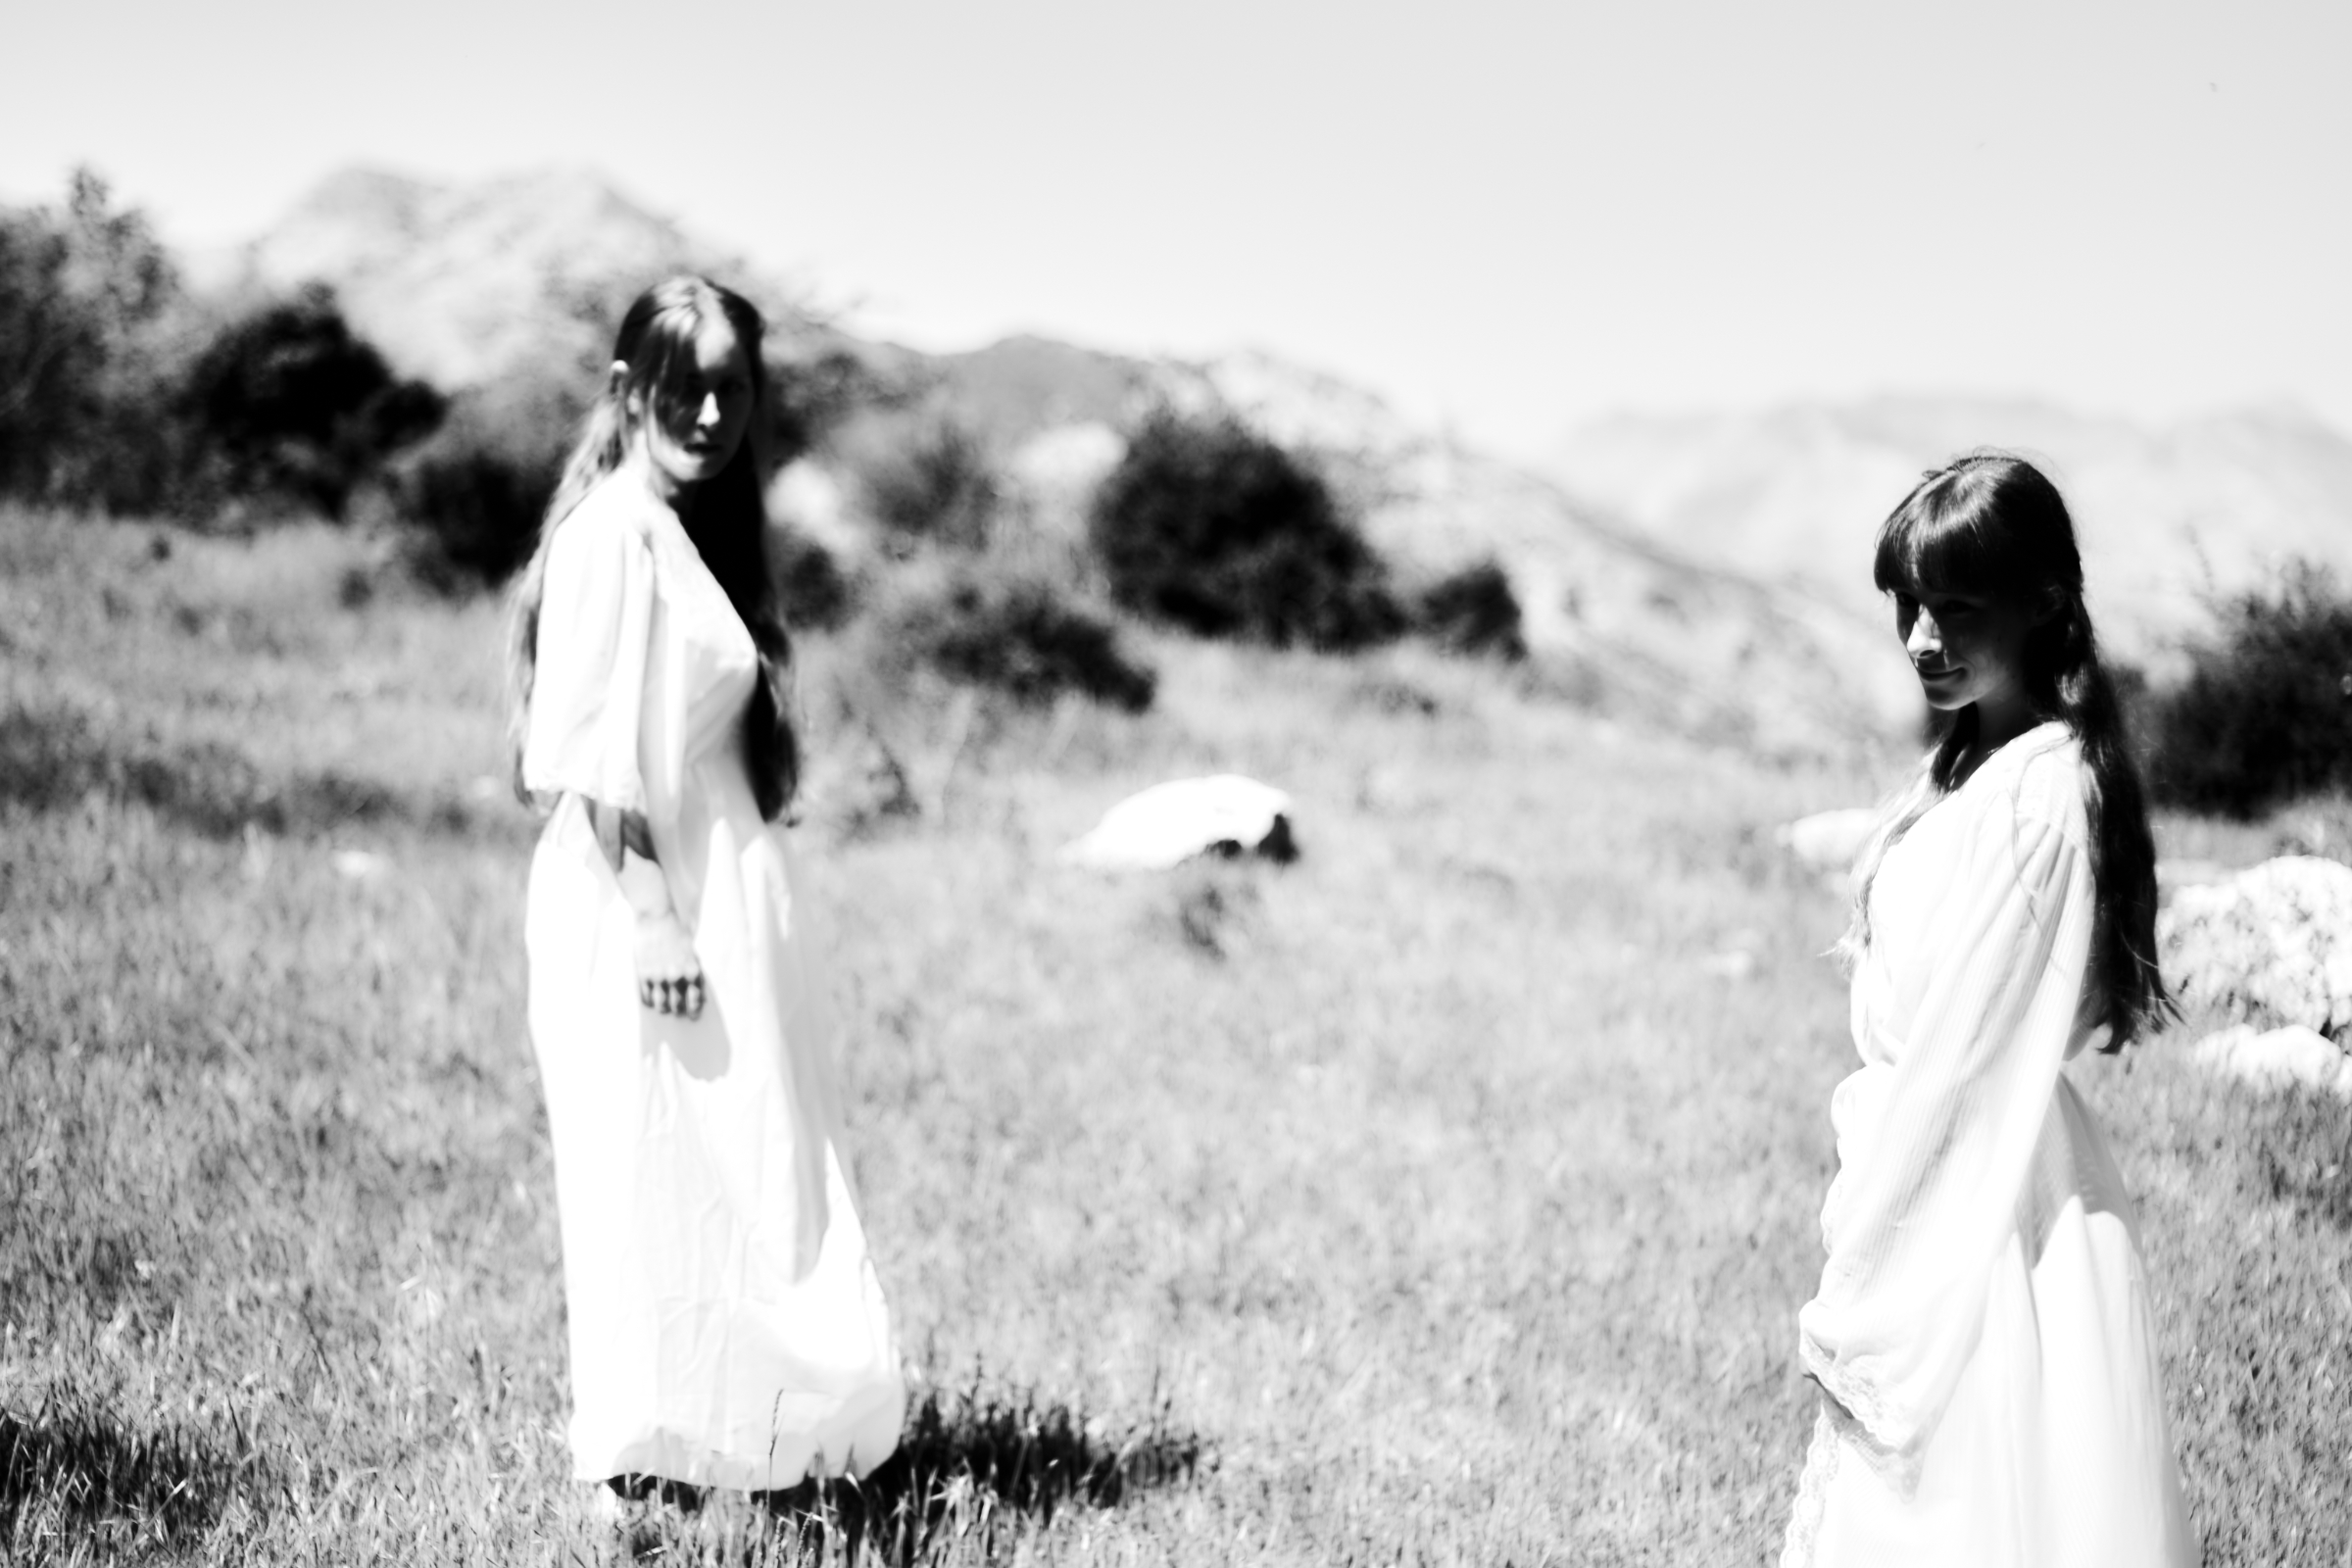
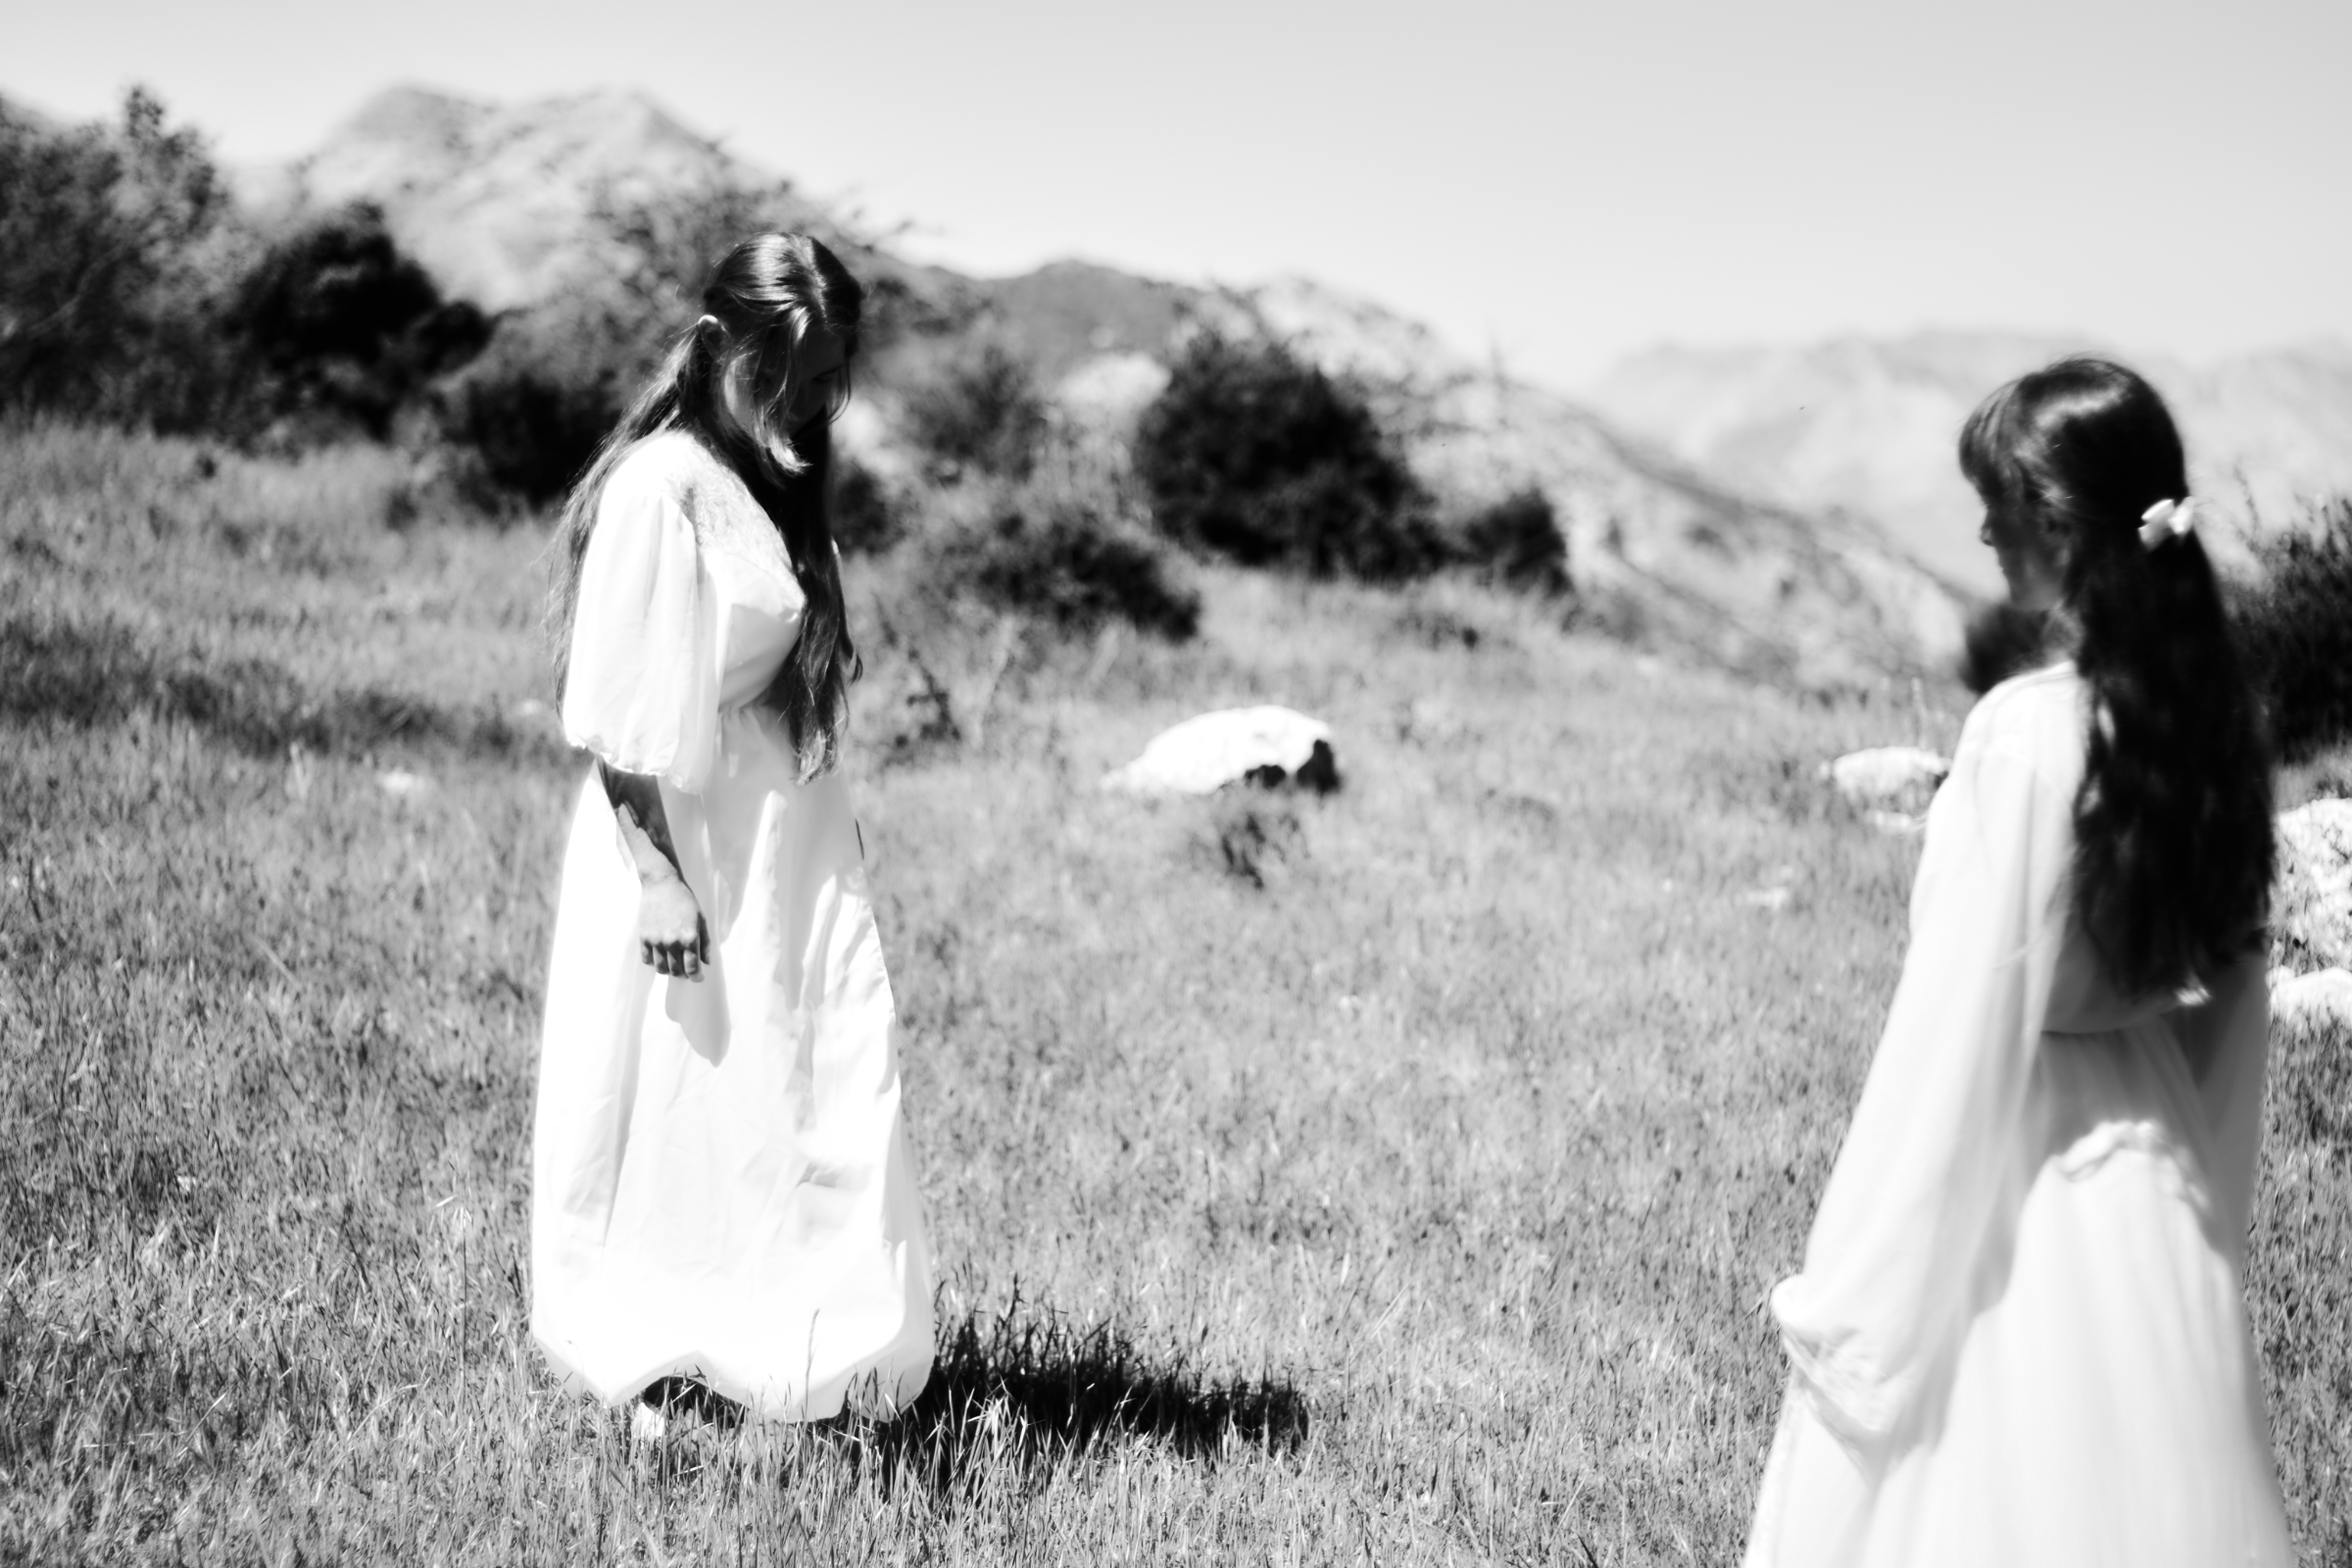
nueva foto

diff --git a/bio.html b/bio.html
@@ -1,4 +1,4 @@
 <!doctype html><html lang="es"><head><meta charset="utf-8"><meta name="viewport" content="width=device-width, initial-scale=1"><meta name="theme-color" content="#fff"><title>Bio — Mateo Pérez Quero</title><link rel="preconnect" href="https://fonts.googleapis.com"><link rel="preconnect" href="https://fonts.gstatic.com" crossorigin><link href="https://fonts.googleapis.com/css2?family=DM+Mono:wght@400;500&family=DM+Sans:wght@400;500;600;700&display=swap" rel="stylesheet"><link rel="stylesheet" href="styles.css"></head><body>
-<header class="top-brand"><a href="index.html" aria-label="Libro uno"><img src="logo-mateo-perez-quero.png" alt="Mateo Pérez Quero"></a></header>
+<header class="top-brand"><a href="zine.html" aria-label="Bound for the fields, skies and mountains"><img src="logo-mateo-perez-quero.png" alt="Mateo Pérez Quero"></a></header>
 <aside class="sidebar"><a href="index.html" class="logo-link" aria-label="Libro uno"><img class="logo" src="logo-mateo-perez-quero.png" alt="Mateo Pérez Quero"></a><p class="side-label">Fotografía · Libros</p><nav class="main-nav" aria-label="Secciones"><a class="nav-link" href="index.html">Al final de la escalera</a><a class="nav-link" href="libro-2.html">Lightshores</a><a class="nav-link" href="zine.html">Bound for the fields, skies and mountains</a><a class="nav-link secondary active" href="bio.html">Bio</a><a class="nav-link secondary" href="venta.html">Venta de libros</a></nav><div class="sidebar-bottom"><a href="mailto:mateopquero@gmail.com" aria-label="Enviar correo" title="Correo"><svg viewBox="0 0 24 24" aria-hidden="true"><rect x="3" y="5" width="18" height="14" rx="1"/><path d="m4 7 8 6 8-6"/></svg></a><a href="https://instagram.com/mateopquero/" aria-label="Instagram" title="Instagram"><svg viewBox="0 0 24 24" aria-hidden="true"><rect x="3" y="3" width="18" height="18" rx="5"/><circle cx="12" cy="12" r="4"/><circle class="fill" cx="18" cy="6" r="1"/></svg></a><span>© <span id="year"></span></span></div></aside>
 <main class="content"><div class="mobile-brand"><img src="logo-mateo-perez-quero.png" alt="Mateo Pérez Quero"><span>Fotografía · Libros</span></div><section class="bio-layout"><div class="bio-portrait"><img src="images/retrato.jpg" alt="Retrato de Mateo Pérez Quero — sustituir por su fotografía"><span></span></div><div class="bio-copy"><p class="kicker">Bio</p><h1>Mateo Pérez<br><em>Quero</em></h1><p>Mateo Pérez Quero (Fuengirola, 1994). Fotógrafo y divulgador cinematográfico, ha organizado actividades cineclubistas durante años, tanto en la Universidad de Málaga, como en la ciudad, colaborando en el proyecto Sala de Cineastas Málaga celebrado cada año en el Cine Albéniz.</p><p>Ha especializado su labor artística en el campo de la fotografía de autor, con la autoedición de varios fotolibros: <em>Bound for the fields, skies and mountains</em> (2021), <em>Lightshores</em> (2022) o <em>Al final de la escalera</em> (2026). Su obra guarda una relación muy estrecha con la narración cinematográfica, jugando con la memoria personal y el entorno propio, en un diálogo de los resquicios de lo vivido con el presente.</p><a href="mailto:mateopquero@gmail.com" class="text-link">Contactar por correo ↗</a></div></section><footer class="page-footer"><a href="index.html">← Libro uno</a><a href="venta.html">Venta de libros →</a></footer></main><script src="script.js"></script></body></html>
